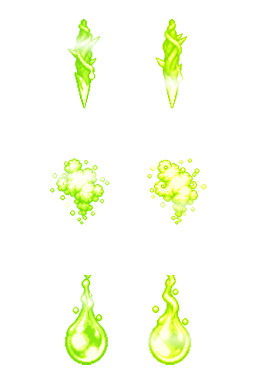
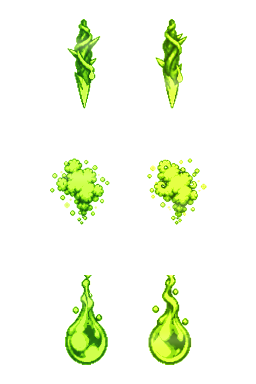
Verdant boss shots: neon edges, painted detail kept in the core (value steps from the original art), glint shimmer

diff --git a/Pause/Assets/Art/Resources/Bosses/src~/verdant_attackshots_recolor.py b/Pause/Assets/Art/Resources/Bosses/src~/verdant_attackshots_recolor.py
@@ -1,30 +1,39 @@
-# Recolours Verdant_attackshots.png (reads src~/Verdant_attackshots_orig.png) so the shots read over the dark jungle backdrop:
-# a bright, saturated chartreuse -> pollen-white ramp keyed to the old luminance (no outline, no dark rim: the old baked keyline
-# becomes body colour). Frame b (right column) differs from frame a: a white sap glint rides to a different place along the
-# shot and the body shifts a little toward yellow, so the 2-frame flicker (BossArt.ShotTicks) is a visible shimmer.
-# Alpha, cell grid and anchors untouched.
+# Recolours Verdant_attackshots.png from src~/Verdant_attackshots_orig.png: neon chartreuse on the edges and glints, painted
+# detail kept inside. The ORIGINAL luminance drives a value ramp (deep jungle green -> leaf green -> neon chartreuse), so the
+# vine strands / thorns, spore puffs and sap-drop highlight + bubbles keep their form; an edge weight (distance to the
+# silhouette) lifts the outer pixels toward neon so the shape separates from the dark canopy. No outline, no rim, no pink/amber.
+# Frame b (right column) shifts a little toward yellow and moves a white sap glint, so the 2-frame flicker still shimmers.
 import sys, numpy as np
 from PIL import Image
 src, dst = sys.argv[1], sys.argv[2]
 a = np.asarray(Image.open(src).convert('RGBA')).astype(float)
 out = a.copy()
-stops = [(0, (96, 205, 8)), (.45, (176, 252, 24)), (.8, (236, 255, 120)), (1, (255, 255, 232))]
-shift = [(0, 0, 0), (28, 4, -10)]            # frame b: a touch more yellow
-glint = [.28, .72]                           # frame a / b: where the sap glint sits along the shot (0 = tail, 1 = tip)
+stops = [(0, (18, 66, 13)), (.28, (46, 134, 15)), (.55, (120, 220, 18)), (.8, (190, 255, 40)), (1, (232, 255, 130))]
+shift = [(0, 0, 0), (22, 4, -8)]
+glint = [.28, .72]
+def edge_dist(m, n=6):
+    d = np.zeros(m.shape); cur = m.copy()
+    for i in range(n):
+        d += cur
+        p = np.pad(cur, 1)
+        cur = cur & p[:-2, 1:-1] & p[2:, 1:-1] & p[1:-1, :-2] & p[1:-1, 2:]
+    return d    # 0 outside, 1 = outermost pixel ... n = deep inside
 for r in range(a.shape[0] // 128):
     for f in range(2):
         y0, x0 = r * 128, f * 128
         cell = a[y0:y0 + 128, x0:x0 + 128]
         rgb, al = cell[..., :3] / 255, cell[..., 3]
         Y = .299 * rgb[..., 0] + .587 * rgb[..., 1] + .114 * rgb[..., 2]
-        t = np.clip((Y - .04) / .70, 0, 1)
+        m = al > 40
+        t = np.clip((Y - .07) / .56, 0, 1) ** 1.15
+        e = np.clip(1 - (edge_dist(m) - 1) / 2.6, 0, 1)        # 1 on the outer ring of pixels, 0 from ~4 px in
+        t = np.clip(t * .88 + e * .3, 0, 1)
         col = np.stack([np.interp(t, [s[0] for s in stops], [s[1][c] for s in stops]) for c in range(3)], -1)
         col = col + np.array(shift[f])
-        m = al > 8
         if m.any():
             ys = np.where(m.any(1))[0]; top, bot = ys[0], ys[-1]
             yy = (np.arange(128)[:, None] - top) / max(1, bot - top)
-            g = np.exp(-((yy - glint[f]) / .09) ** 2) * (.85 if r == 0 else .6)
-            col = col * (1 - g[..., None]) + 255 * g[..., None]
+            g = np.exp(-((yy - glint[f]) / .07) ** 2) * (.4 if r == 0 else .22) * m
+            col = col * (1 - g[..., None]) + np.array([245, 255, 190]) * g[..., None]
         out[y0:y0 + 128, x0:x0 + 128, :3] = np.clip(col, 0, 255)
 Image.fromarray(out.round().astype(np.uint8), 'RGBA').save(dst)
